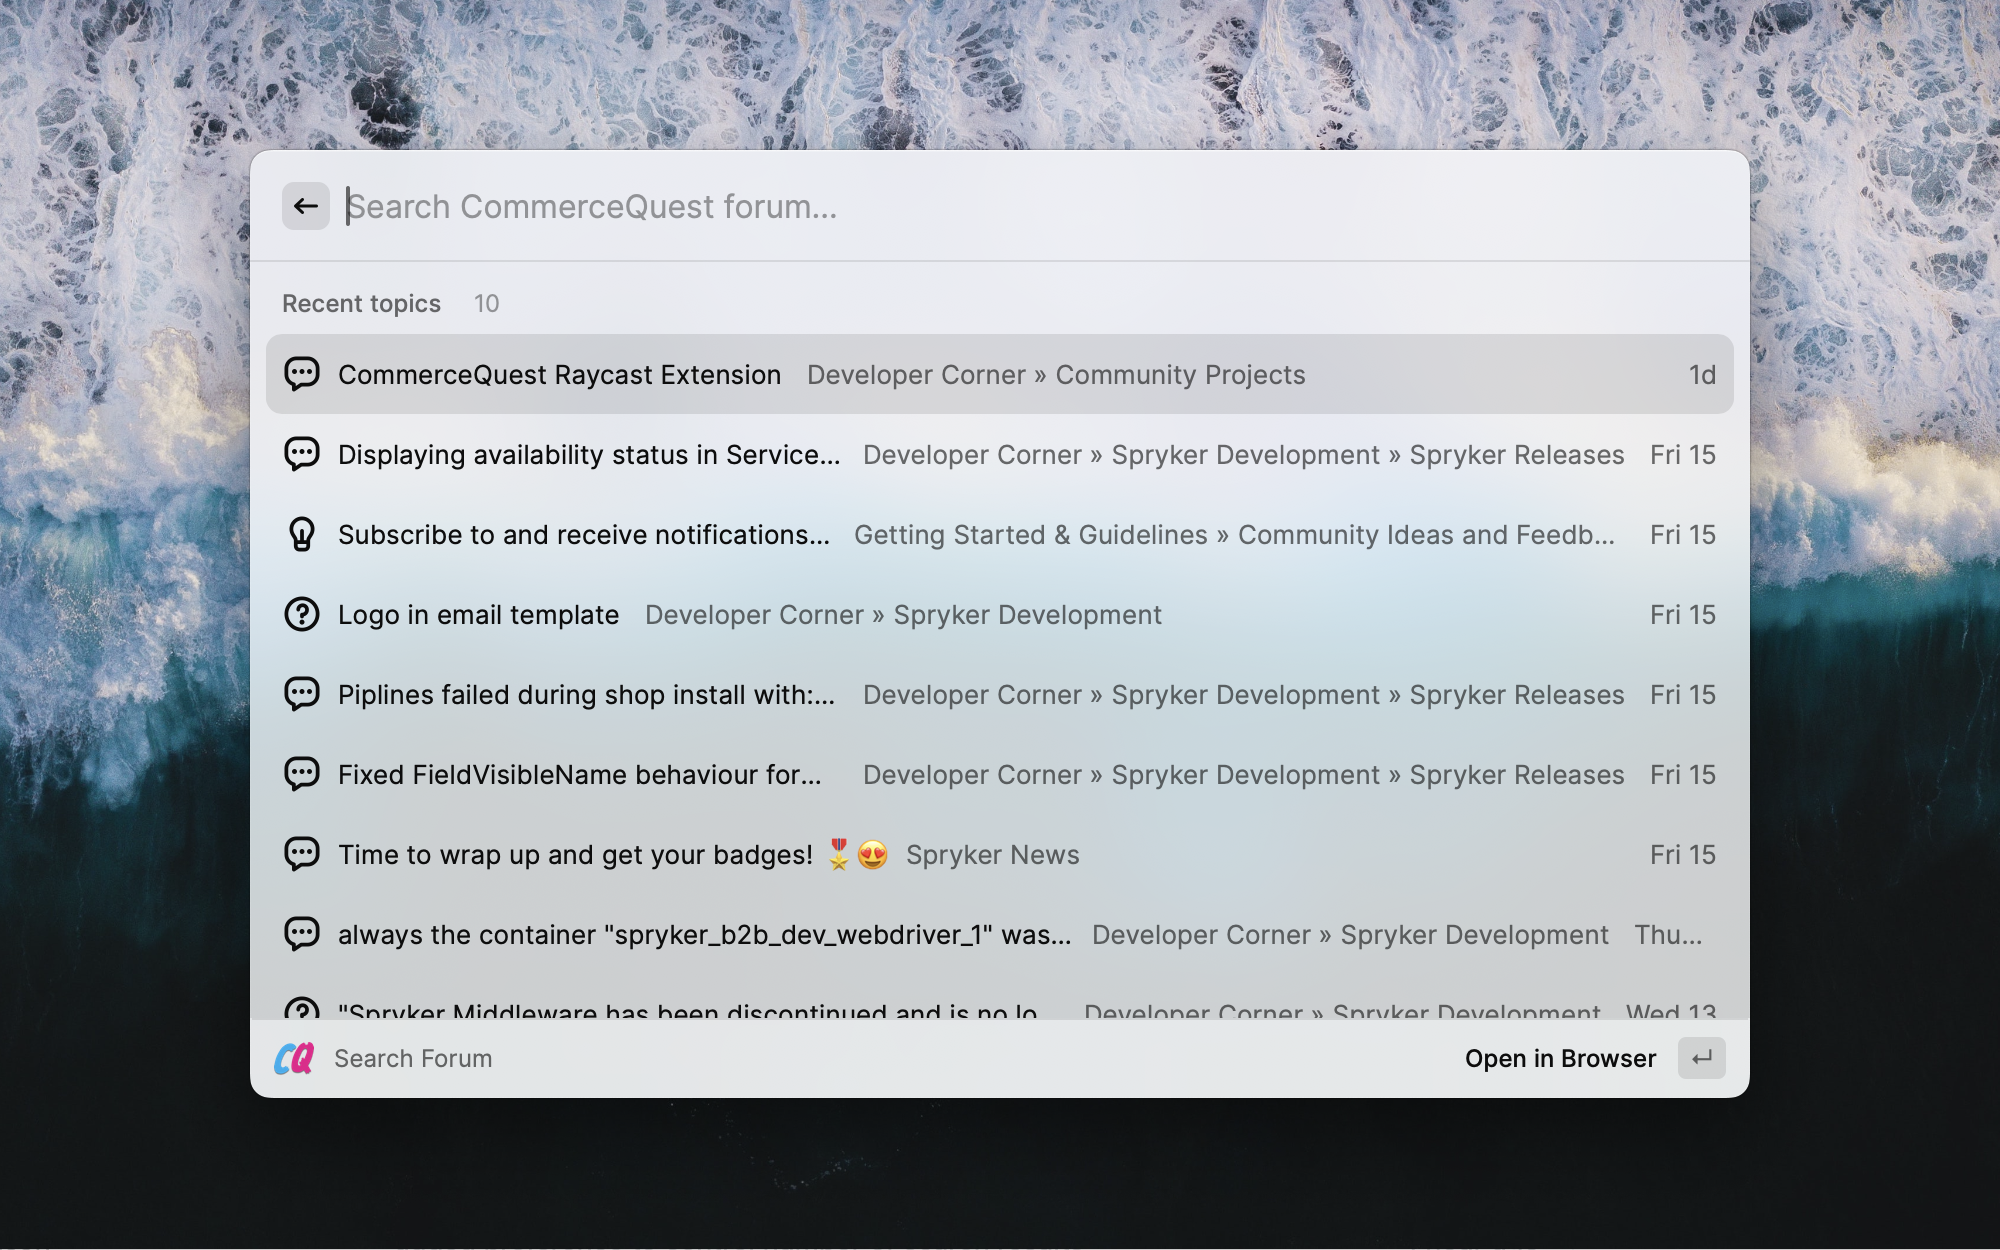
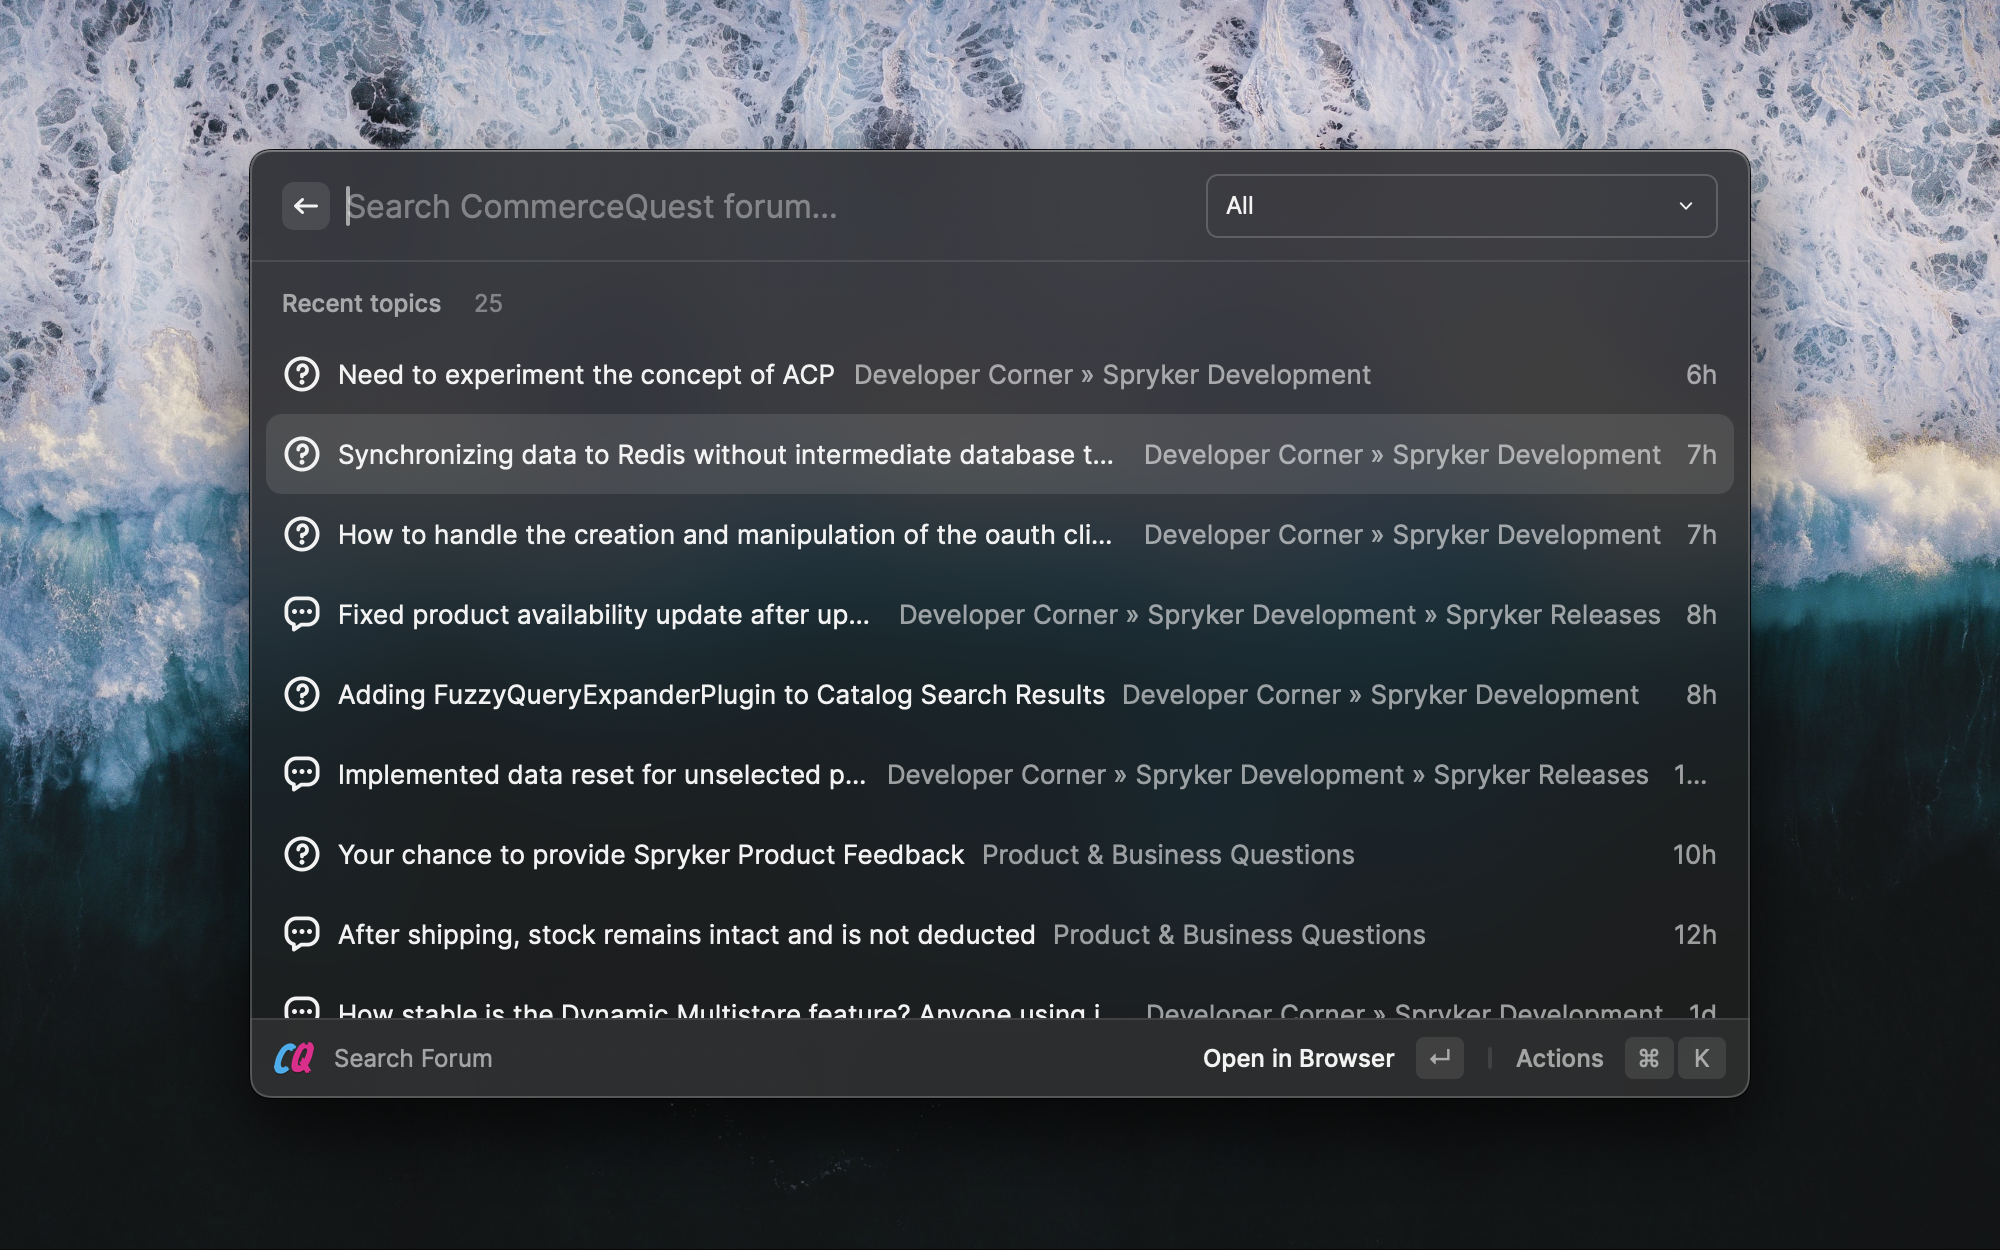
Pull contributions

diff --git a/src/search.tsx b/src/search.tsx
@@ -1,12 +1,45 @@
-import { ActionPanel, Action, List, Icon, getPreferenceValues } from "@raycast/api";
-import { useFetch, Response } from "@raycast/utils";
+import { ActionPanel, Action, List, getPreferenceValues } from "@raycast/api";
+import { useFetch } from "@raycast/utils";
 import { useState } from "react";
 import { URLSearchParams } from "node:url";
+import { mapIconCode } from "./lib/utils";
 
-export default function Command() {
-  const [searchText, setSearchText] = useState("");
+import Preview from "./components/Preview";
+import { Breadcrumb, User, SearchResult, ItemType } from "./lib/types";
+
+const itemTypes: ItemType[] = [
+  { id: "", name: "All" },
+  { id: "article", name: "Articles" },
+  { id: "discussion", name: "Discussions" },
+  { id: "comment", name: "Comments" },
+  { id: "question", name: "Questions" },
+  { id: "answer", name: "Answers" },
+  { id: "group", name: "Groups" },
+  { id: "poll", name: "Polls" },
+];
+
+function ItemTypeDropdown(props: { itemTypes: ItemType[]; onItemTypeChange: (newValue: string) => void }) {
+  const { itemTypes, onItemTypeChange } = props;
+  return (
+    <List.Dropdown
+      tooltip="Select Type"
+      defaultValue=""
+      storeValue={true}
+      onChange={(newValue) => {
+        onItemTypeChange(newValue);
+      }}
+    >
+      <List.Dropdown.Section title="Item Types">
+        {itemTypes.map((itemType) => (
+          <List.Dropdown.Item key={itemType.id} title={itemType.name} value={itemType.id} />
+        ))}
+      </List.Dropdown.Section>
+    </List.Dropdown>
+  );
+}
+
+function fetchItems(searchText: string, filterItemType: string) {
   const searchParams = new URLSearchParams({
-    domain: "all_content",
     query: searchText.length === 0 ? "" : searchText,
     collapse: "true",
     limit: getPreferenceValues().numSearchResults,
@@ -14,12 +47,26 @@ export default function Command() {
   });
   searchParams.append("expand", "breadcrumbs");
   searchParams.append("expand", "-body");
+  searchParams.append("expand", "insertUser");
+  searchParams.append("types", filterItemType);
 
   const { data, isLoading } = useFetch("https://commercequest.space/api/v2/search?" + searchParams, {
     parseResponse: parseFetchResponse,
   });
 
+  return {
+    data,
+    isLoading,
+  };
+}
+
+export default function Command() {
+  const [searchText, setSearchText] = useState("");
+  const [filterItemType, setFilterItemType] = useState("");
+
   const emptyTitle = searchText.length === 0 ? "Recent topics" : "Search results";
+
+  const { data, isLoading } = fetchItems(searchText, filterItemType);
 
   return (
     <List
@@ -27,6 +74,7 @@ export default function Command() {
       onSearchTextChange={setSearchText}
       searchBarPlaceholder="Search CommerceQuest forum..."
       throttle
+      searchBarAccessory={<ItemTypeDropdown itemTypes={itemTypes} onItemTypeChange={setFilterItemType} />}
     >
       <List.Section title={emptyTitle} subtitle={data?.length + ""}>
         {data?.map((searchResult: SearchResult) => (
@@ -38,38 +86,22 @@ export default function Command() {
 }
 
 function SearchListItem({ searchResult }: { searchResult: SearchResult }) {
-  let iconCode;
-  switch (searchResult.type) {
-    case "discussion":
-      iconCode = Icon.SpeechBubbleActive;
-      break;
-    case "idea":
-      iconCode = Icon.LightBulb;
-      break;
-    case "question":
-      iconCode = Icon.QuestionMark;
-      break;
-    case "category":
-      iconCode = Icon.Layers;
-      break;
-    default:
-      iconCode = Icon.Circle;
-      break;
-  }
+  const date = new Date(searchResult.dateUpdated ? searchResult.dateUpdated : searchResult.dateInserted);
 
   return (
     <List.Item
       title={searchResult.name}
       keywords={[searchResult.recordType]}
-      subtitle={searchResult.breadcrumbs}
-      accessories={[
-        { date: new Date(searchResult.dateUpdated ? searchResult.dateUpdated : searchResult.dateInserted) },
-      ]}
-      icon={iconCode}
+      subtitle={searchResult.breadcrumbsFormatted}
+      accessories={[{ date: date, tooltip: date.toLocaleString() }]}
+      icon={mapIconCode(searchResult.type)}
       actions={
         <ActionPanel>
           <ActionPanel.Section>
-            <Action.OpenInBrowser title="Open in Browser" url={searchResult.url} />
+            <Action.OpenInBrowser url={searchResult.url} />
+            {searchResult.type != "category" ? (
+              <Action.Push title="Preview" target={<Preview {...searchResult} />} />
+            ) : null}
           </ActionPanel.Section>
         </ActionPanel>
       }
@@ -85,30 +117,49 @@ async function parseFetchResponse(response: Response) {
     throw new Error("message" in json ? json.message : response.statusText);
   }
 
+  // @TODO import tagIds and display on Detail
   return json.map(
     (result: {
-      breadcrumbs: { name: string }[];
-      recordID: any;
-      name: any;
-      recordType: any;
-      type: any;
-      dateUpdated: any;
-      dateInserted: any;
-      url: any;
+      breadcrumbs: Breadcrumb[];
+      recordID: string;
+      name: string;
+      recordType: string;
+      type: string;
+      dateUpdated: string;
+      dateInserted: string;
+      url: string;
+      body: string;
+      insertUser?: User;
     }) => {
-      let breadcrumbFormatted = "";
+      let breadcrumbsFormatted = "";
+      const breadcrumbs: Breadcrumb[] = [];
       if (result.breadcrumbs) {
         // remove first breadcrumb, it is always "home"
         result.breadcrumbs.shift();
 
         // remove second one from array and add as start for breadcrumbs
         const secondBreadcrumb = result.breadcrumbs.shift();
-        breadcrumbFormatted += secondBreadcrumb?.name;
+        if (secondBreadcrumb) {
+          breadcrumbsFormatted += secondBreadcrumb.name;
+          breadcrumbs.push(secondBreadcrumb);
+        }
 
         // suffix remaining breadcrumbs
-        result.breadcrumbs.forEach(function (item: { name: string }) {
-          breadcrumbFormatted = breadcrumbFormatted + " » " + item.name;
+        result.breadcrumbs.forEach(function (breadcrumb: Breadcrumb) {
+          breadcrumbsFormatted = breadcrumbsFormatted + " » " + breadcrumb.name;
+          breadcrumbs.push(breadcrumb);
         });
+      }
+
+      let insertUser = null;
+      if (result.insertUser) {
+        insertUser = {
+          name: result.insertUser.name,
+          photoUrl: result.insertUser.photoUrl,
+          url: result.insertUser.url,
+          label: result.insertUser.label,
+          title: result.insertUser.title,
+        } as User;
       }
 
       return {
@@ -119,19 +170,11 @@ async function parseFetchResponse(response: Response) {
         dateUpdated: result.dateUpdated,
         dateInserted: result.dateInserted,
         url: result.url,
-        breadcrumbs: breadcrumbFormatted,
+        breadcrumbsFormatted: breadcrumbsFormatted,
+        breadcrumbs: breadcrumbs,
+        body: result.body,
+        insertUser: insertUser,
       } as SearchResult;
     }
   );
-}
-
-interface SearchResult {
-  recordID: string;
-  name: string;
-  recordType: string;
-  type: string;
-  dateUpdated: string;
-  dateInserted: string;
-  url: string;
-  breadcrumbs: string;
 }

diff --git a/src/components/Preview.tsx b/src/components/Preview.tsx
@@ -1,0 +1,75 @@
+import { Action, ActionPanel, Detail, Icon, open } from "@raycast/api";
+import { SearchResult } from "../lib/types";
+import { mapIconCode } from "../lib/utils";
+import html2md from "html-to-md";
+
+export default function Preview(searchResult: SearchResult) {
+  return (
+    <Detail
+      isLoading={false}
+      navigationTitle={searchResult.name}
+      markdown={"# " + searchResult.name + "\n" + html2md(searchResult.body)}
+      actions={
+        <ActionPanel>
+          <ActionPanel.Section>
+            <Action.OpenInBrowser title="Open in Browser" url={searchResult.url} />
+          </ActionPanel.Section>
+        </ActionPanel>
+      }
+      metadata={
+        <Detail.Metadata>
+          <Detail.Metadata.Label
+            title="Date"
+            icon={Icon.Calendar}
+            text={new Date(searchResult.dateInserted).toLocaleDateString()}
+          />
+          <Detail.Metadata.Label
+            title="Type"
+            icon={mapIconCode(searchResult.type)}
+            text={capitalizeFirstLetter(searchResult.type)}
+          />
+          <Detail.Metadata.Link title="URL" text={searchResult.url} target={searchResult.url} />
+          <Detail.Metadata.TagList title="Path">
+            {searchResult.breadcrumbs.map((breadcrumb) => (
+              <Detail.Metadata.TagList.Item
+                key={breadcrumb.url}
+                text={breadcrumb.name}
+                color={"#ec008c"}
+                onAction={() => {
+                  open(breadcrumb.url);
+                }}
+              />
+            ))}
+          </Detail.Metadata.TagList>
+          <Detail.Metadata.Separator />
+          {searchResult.insertUser != null && searchResult.insertUser.name ? (
+            <Detail.Metadata.Label
+              title="Author"
+              icon={searchResult.insertUser.photoUrl ? searchResult.insertUser.photoUrl : Icon.Person}
+              text={searchResult.insertUser.name}
+            />
+          ) : null}
+          {searchResult.insertUser != null && searchResult.insertUser.url ? (
+            <Detail.Metadata.Link
+              title="Profile"
+              target={searchResult.insertUser.url}
+              text={searchResult.insertUser.url}
+            />
+          ) : null}
+          <Detail.Metadata.TagList title="About">
+            {searchResult.insertUser != null && searchResult.insertUser.label ? (
+              <Detail.Metadata.TagList.Item text={searchResult.insertUser.label} color={"#00aeef"} />
+            ) : null}
+            {searchResult.insertUser != null && searchResult.insertUser.title ? (
+              <Detail.Metadata.TagList.Item text={searchResult.insertUser.title} color={"#00aeef"} />
+            ) : null}
+          </Detail.Metadata.TagList>
+        </Detail.Metadata>
+      }
+    />
+  );
+}
+
+function capitalizeFirstLetter(string: string) {
+  return string.charAt(0).toUpperCase() + string.slice(1);
+}

diff --git a/src/lib/types.tsx b/src/lib/types.tsx
@@ -1,0 +1,31 @@
+export interface Breadcrumb {
+  name: string;
+  url: string;
+}
+
+export interface SearchResult {
+  recordID: string;
+  name: string;
+  recordType: string;
+  type: string;
+  dateUpdated: string;
+  dateInserted: string;
+  url: string;
+  breadcrumbsFormatted: string;
+  breadcrumbs: Breadcrumb[];
+  body: string;
+  insertUser?: User;
+}
+
+export interface User {
+  name: string;
+  photoUrl: string;
+  url: string;
+  label: string;
+  title: string;
+}
+
+export interface ItemType {
+  id: string;
+  name: string;
+}

diff --git a/src/lib/utils.tsx b/src/lib/utils.tsx
@@ -1,0 +1,20 @@
+import { Icon } from "@raycast/api";
+
+export const mapIconCode = (type: string) => {
+  switch (type) {
+    case "discussion":
+      return Icon.SpeechBubbleActive;
+    case "idea":
+      return Icon.LightBulb;
+    case "question":
+      return Icon.QuestionMark;
+    case "category":
+      return Icon.Layers;
+    case "poll":
+      return Icon.BarChart;
+    case "article":
+      return Icon.Document;
+    default:
+      return Icon.Circle;
+  }
+};

diff --git a/CHANGELOG.md b/CHANGELOG.md
@@ -1,5 +1,11 @@
 # CommerceQuest.space Changelog
 
+## [Filter Searchresults by Type] - 2023-09-23
+- Added a Dropdown to filter Search-results by Type  
+
+## [Detail View] - 2023-09-18
+- Added a Detailview with a preview of a Forum-thread
+
 ## [Public Release] - 2023-09-17
 - Cleanup and refactoring for initial public release of Extension
 
